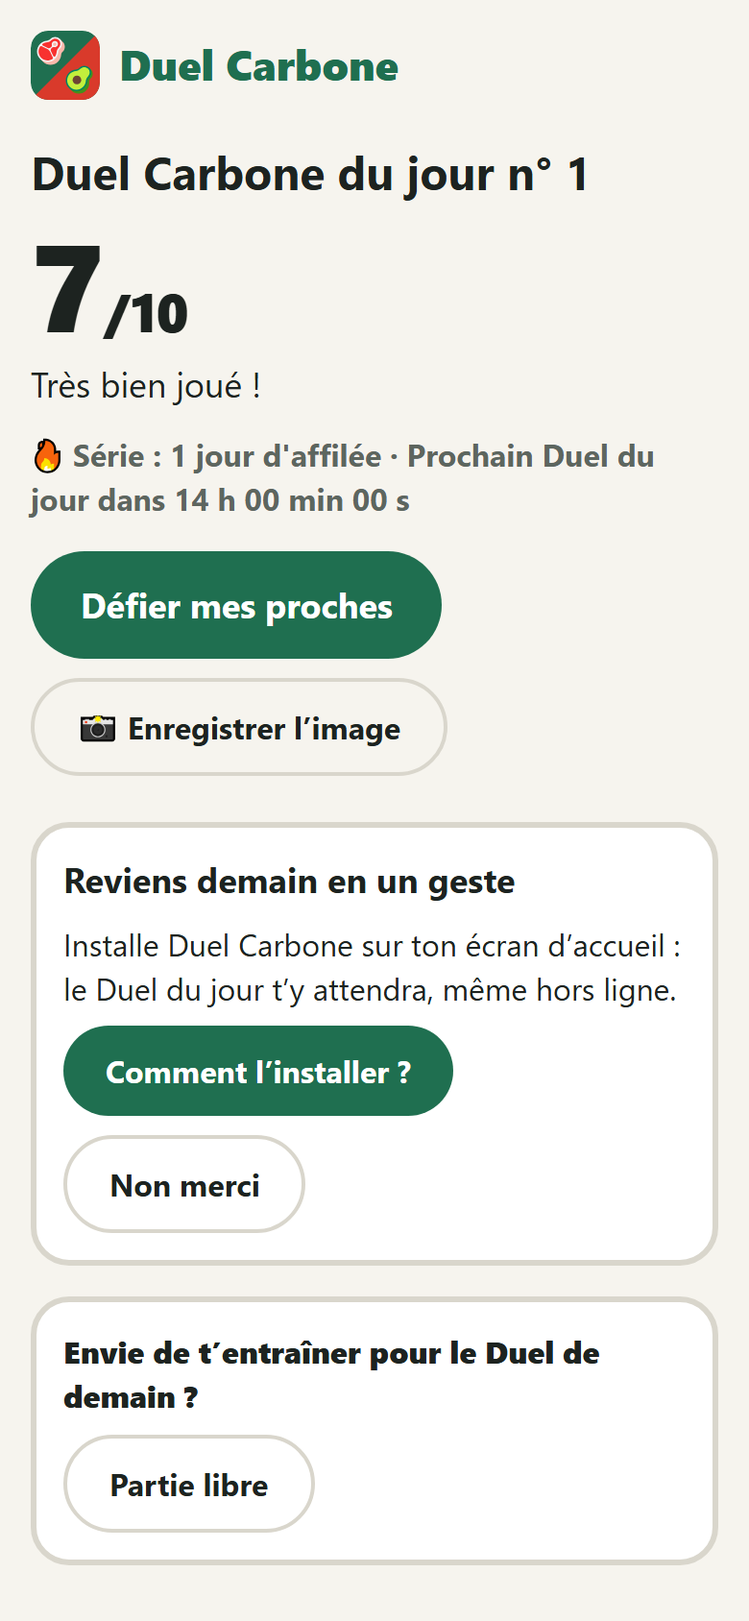
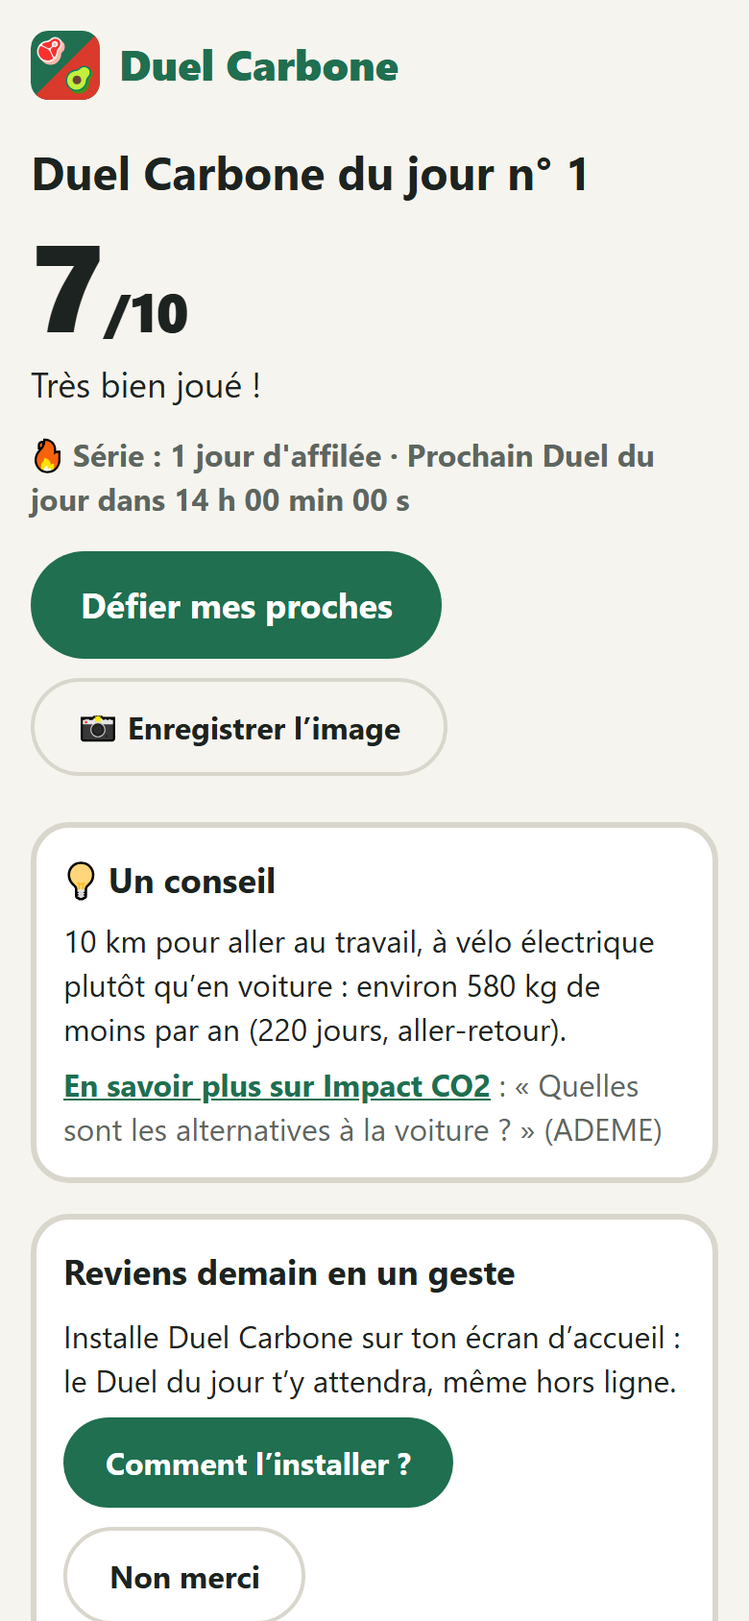
feat(fin): le Conseil sous le partage (variante A du prototype), tests et documentation
Fabien a choisi la variante A le 22/11 : le Rang du jour reste sous le
score, le Conseil arrive sous les boutons de partage. Le prototype est
retiré d'ici et gardé sur la branche prototype/conseil-place.

Tests de l'écran de fin, de l'application (Duel du jour revu, Partie
libre sans Conseil récent) et de bout en bout (clavier, axe-core en clair
et en sombre). PRD, page En savoir plus (d'où viennent les chiffres des
Conseils, vie privée) et capture de fin du README à jour.

Changed region(s): [[0.0308, 0.5237, 0.9846, 1.0]]

diff --git a/src/ecrans/EcranEnSavoirPlus.tsx b/src/ecrans/EcranEnSavoirPlus.tsx
@@ -1,4 +1,5 @@
 import { useEffect, useRef, useState, type MouseEvent, type ReactNode } from 'react'
+import { CONSEILS } from '../donnees/conseils.ts'
 import { GESTES_CALCULES, gesteCalcule, INSTANTANE } from '../donnees/index.ts'
 import { enMinuscule, formaterDate, formaterEmpreinte } from '../domaine/format.ts'
 import { REGLES } from '../domaine/regles.ts'
@@ -57,6 +58,11 @@ const PART_DES_TRAINEES = trainees ? Math.round((trainees.valeur / NEW_YORK.empr
 const kgIa = (h: keyof typeof HYPOTHESES) => Math.round(empreinteDeLaCreation(JETONS, HYPOTHESES[h]).kgCo2e)
 const FRIENDS = gesteCalcule('friends')
 
+// L'exemple de calcul d'un Conseil : 2 repas au bœuf par semaine devenus végétariens, avec les valeurs de l'Instantané.
+const REPAS_BOEUF = gesteCalcule('repas-boeuf')
+const REPAS_VEGETARIEN = gesteCalcule('repas-vegetarien')
+const ECONOMIE_VEGETARIENNE = 2 * 52 * (REPAS_BOEUF.empreinte - REPAS_VEGETARIEN.empreinte)
+
 const PREMIERE_TRANCHE = REGLES.tranchesParDuel[0]
 const DERNIERE_TRANCHE = REGLES.tranchesParDuel[REGLES.tranchesParDuel.length - 1]
 
@@ -72,6 +78,7 @@ const PARTIES = {
   objets: "Les objets : la durée d'utilisation retenue par l'ADEME",
   reglages: "Les réglages : ceux de l'ADEME, par défaut",
   regles: 'Les règles du jeu',
+  conseils: 'Les Conseils de fin de Partie',
   installer: 'Jouer hors ligne : installer le jeu',
   'vie-privee': 'Ta vie privée',
   empreinte: 'L’empreinte de ce jeu',
@@ -292,6 +299,30 @@ export function EcranEnSavoirPlus() {
         </p>
       </Partie>
 
+      <Partie id="conseils">
+        <p>
+          À la fin de chaque Partie, un Conseil propose une action concrète, liée à un geste de ta Partie, de
+          préférence à un Duel que tu as raté. Le jeu en compte {CONSEILS.length}, écrits par Duel Carbone : l'ADEME
+          publie des idées pour agir, mais pas de conseil chiffré pour chaque geste. Un même Conseil ne revient pas
+          avant 5 Parties.
+        </p>
+        <p>
+          Leurs chiffres ne sont jamais écrits à la main : ils sont calculés avec les mêmes valeurs de l'ADEME que les
+          Duels, pour ne jamais les contredire. Seules les hypothèses sont notre choix (2 repas par semaine, 10 km
+          pour aller au travail, 220 jours de travail par an…), et elles sont écrites dans le texte. Par exemple :
+        </p>
+        <p className="savoir__formule">
+          2 repas × 52 semaines × ({formaterEmpreinte(REPAS_BOEUF.empreinte)} pour un repas avec du bœuf −{' '}
+          {formaterEmpreinte(REPAS_VEGETARIEN.empreinte)} pour un repas végétarien) ={' '}
+          {formaterEmpreinte(ECONOMIE_VEGETARIENNE)} de moins par an
+        </p>
+        <p>
+          Le Conseil l'arrondit (« environ {formaterEmpreinte(Math.round(ECONOMIE_VEGETARIENNE / 10) * 10)} ») et
+          renvoie vers une page de l'ADEME pour aller plus loin : une action de Nos Gestes Climat, ou les questions
+          fréquentes d'Impact CO2.
+        </p>
+      </Partie>
+
       <Partie id="installer">
         <p>
           Pour ne manquer aucun Duel du jour, installe Duel Carbone sur l’écran d’accueil de ton téléphone : il
@@ -305,7 +336,7 @@ export function EcranEnSavoirPlus() {
       <Partie id="vie-privee">
         <p>
           Sans cookie, sans compte. Ton record, ta Partie du jour (pour la reprendre ou revoir ton résultat), ta
-          série, les derniers Duels joués (pour ne pas te reposer les mêmes) et ton éventuel « Non merci » à
+          série, les derniers Duels joués et les derniers Conseils lus (pour ne pas te reposer les mêmes) et ton éventuel « Non merci » à
           l’invitation à installer le jeu sont gardés dans ton navigateur, sur cet appareil. Ils ne sont envoyés nulle part.
         </p>
         <p>
@@ -333,7 +364,7 @@ export function EcranEnSavoirPlus() {
         </p>
         <p>
           Pour savoir si le jeu plaît, nous comptons les visites et quelques moments de jeu (une Partie lancée, terminée
-          et sa durée approximative, la longueur de ta série quand tu lances le Duel du jour, « Rejouer », un partage en texte ou en image, l'invitation à installer le jeu et sa réponse, et les plantages du jeu, sans leur détail) avec{' '}
+          et sa durée approximative, la longueur de ta série quand tu lances le Duel du jour, « Rejouer », un partage en texte ou en image, le lien « En savoir plus » d'un Conseil, l'invitation à installer le jeu et sa réponse, et les plantages du jeu, sans leur détail) avec{' '}
           <a href={GOATCOUNTER}>GoatCounter</a>, une mesure
           d'audience sans cookie ni identifiant. Elle ne donne que des chiffres agrégés : elle ne peut pas te suivre
           d'un site à l'autre, ne conserve pas ton adresse IP, et ni ton score ni tes réponses ne lui sont envoyés. Si

diff --git a/src/ecrans/EcranFin.tsx b/src/ecrans/EcranFin.tsx
@@ -1,7 +1,6 @@
 import { useEffect, useRef, useState } from 'react'
 import { CompteARebours } from '../composants/CompteARebours.tsx'
 import { Conseil } from '../composants/Conseil.tsx'
-import { PrototypeSwitcher, variantePrototype } from '../composants/PrototypeSwitcher.tsx'
 import { InvitationInstallation } from '../composants/InvitationInstallation.tsx'
 import { PanneauDuel } from '../composants/PanneauDuel.tsx'
 import { RangDuJour } from '../composants/RangDuJour.tsx'
@@ -141,11 +140,6 @@ export function EcranFin({
     if (conseilAffiche) onConseilVu.current?.(conseilAffiche.id)
   }, [conseilAffiche])
 
-  // PROTOTYPE (issue 88, à retirer) : la place du Conseil à côté du Rang du jour, en développement seulement.
-  const [variante, setVariante] = useState(variantePrototype)
-  const rang = partieDuJour ? (partieDuJour.rang ?? (variante ? { type: 'pourcentage' as const, pourcentage: 72 } : null)) : null
-  const blocConseil = conseilAffiche && <Conseil conseil={conseilAffiche} />
-
   // Position (0 à 9) du Duel dont le détail est ouvert, ou null si le panneau est fermé.
   const [ouvert, setOuvert] = useState<number | null>(null)
   // Les 10 cases, pour rendre le focus à celle qu'on vient de consulter.
@@ -170,8 +164,7 @@ export function EcranFin({
         <span>/{total}</span>
       </p>
       <p className="fin__message">{messageDeScore(score, total)}</p>
-      {partieDuJour && variante !== 'C' && <RangDuJour rang={rang} />}
-      {variante === 'B' && blocConseil}
+      {partieDuJour && <RangDuJour rang={partieDuJour.rang ?? null} />}
       {partieDuJour && (
         <p className="fin__complement">
           {partieDuJour.serie > 0 && <>🔥 Série : {jours(partieDuJour.serie)} d'affilée · </>}
@@ -235,21 +228,9 @@ export function EcranFin({
           <p>L’image n’a pas pu être créée sur cet appareil : partage plutôt ton score en texte.</p>
         )}
       </div>
-      {(variante === null || variante === 'A') && blocConseil}
-      {variante === 'C' && (
-        <div className="fin__prototype-c">
-          <h3>Et toi, dans tout ça ?</h3>
-          {partieDuJour && <RangDuJour rang={rang} />}
-          {conseilAffiche && <p>{conseilAffiche.texte}</p>}
-          {conseilAffiche && (
-            <p>
-              <a href={conseilAffiche.lien.url} target="_blank" rel="noopener noreferrer">
-                En savoir plus
-              </a>
-            </p>
-          )}
-        </div>
-      )}
+      {/* Le Conseil, sous les boutons de partage (prototype du 22/11, variante A : le Rang reste sous le score,
+          le partage à portée de pouce). */}
+      {conseilAffiche && <Conseil conseil={conseilAffiche} />}
       {!partieDuJour && duJour?.situation === 'joue' && (
         <p className="fin__complement">
           Prochain Duel du jour dans <CompteARebours />
@@ -301,17 +282,6 @@ export function EcranFin({
       </ul>
 
       {ouvert !== null && <PanneauDuel key={ouvert} ligne={lignes[ouvert]} onFermer={fermer} />}
-      {variante && (
-        <PrototypeSwitcher
-          variantes={{
-            A: 'Rang en haut, Conseil sous le partage',
-            B: 'Rang et Conseil ensemble, sous le score',
-            C: 'Rang descend avec le Conseil, sous le partage',
-          }}
-          courante={variante}
-          onChange={setVariante}
-        />
-      )}
     </section>
   )
 }

diff --git a/src/App.test.tsx b/src/App.test.tsx
@@ -1,6 +1,9 @@
 import { act, fireEvent, render, screen, waitFor, within } from '@testing-library/react'
 import { afterEach, describe, expect, it, vi } from 'vitest'
 import App from './App'
+import { redigerConseil, valeursDe } from './domaine/conseils.ts'
+import { CONSEILS } from './donnees/conseils.ts'
+import { INSTANTANE } from './donnees/index.ts'
 import { creerMemoire, type Stockage } from './navigateur/memoire.ts'
 import { signalerNouvelleVersion } from './navigateur/mise-a-jour.ts'
 import { TITRE_ACCUEIL, TITRE_EN_SAVOIR_PLUS } from './referencement.ts'
@@ -439,5 +442,55 @@ describe('Application : mise à jour silencieuse (application installée)', () =
     expect(appliquer).not.toHaveBeenCalled()
     fireEvent.click(screen.getByRole('link', { name: 'Duel Carbone' }))
     expect(appliquer).toHaveBeenCalledOnce()
+  })
+})
+
+describe('Application : le Conseil de fin de Partie', () => {
+  const JOUR = '2026-11-20'
+  const jouerDixDuels = () => {
+    for (let i = 0; i < 10; i++) {
+      const auDuel = screen.queryByRole('button', { name: 'Au Duel !' })
+      if (auDuel) fireEvent.click(auDuel)
+      fireEvent.click(within(screen.getByRole('region', { name: 'Lequel émet le plus ?' })).getAllByRole('button')[0])
+      fireEvent.click(screen.getByRole('button', { name: i === 9 ? 'Voir mon score' : 'Duel suivant →' }))
+    }
+  }
+  // Comme toHaveTextContent, les espaces (dont l'espace fine des milliers, « 1 350 ») deviennent de simples espaces.
+  const texteDu = (id: string) =>
+    redigerConseil(CONSEILS.find((c) => c.id === id)!, valeursDe(INSTANTANE)).replace(/\s+/g, ' ')
+  const conseilAffiche = () => screen.getByRole('complementary', { name: 'Un conseil' })
+
+  it('en montre un à la fin du Duel du jour, et le même quand on revoit son Récapitulatif', async () => {
+    const s = stockage()
+    const premier = render(<App memoire={creerMemoire(s)} aujourdhui={JOUR} />)
+    const bouton = await screen.findByRole('button', { name: /Jouer le Duel du jour/ })
+    await waitFor(() => expect(bouton).toBeEnabled())
+    fireEvent.click(bouton)
+    jouerDixDuels()
+    const memoire = creerMemoire(s)
+    const id = memoire.partieDuJour(JOUR)?.conseil
+    expect(id).toBeDefined()
+    expect(memoire.conseilsRecents()).toEqual([id])
+    expect(conseilAffiche()).toHaveTextContent(texteDu(id!))
+    premier.unmount()
+
+    render(<App memoire={creerMemoire(s)} aujourdhui={JOUR} />)
+    fireEvent.click(await screen.findByRole('button', { name: 'Revoir mon Récapitulatif' }))
+    expect(conseilAffiche()).toHaveTextContent(texteDu(id!))
+    // Revu, il n'est pas compté une seconde fois.
+    expect(creerMemoire(s).conseilsRecents()).toEqual([id])
+  })
+
+  it('en montre un à la fin d’une Partie libre, jamais l’un des 5 derniers vus', async () => {
+    const s = stockage()
+    const memoire = creerMemoire(s)
+    const dejaVus = CONSEILS.slice(0, 5).map((c) => c.id)
+    for (const id of dejaVus) memoire.noterConseil(id)
+    render(<App memoire={creerMemoire(s)} aujourdhui={JOUR} />)
+    fireEvent.click(screen.getByRole('button', { name: 'Partie libre' }))
+    jouerDixDuels()
+    const nouveau = creerMemoire(s).conseilsRecents().at(-1)!
+    expect(dejaVus).not.toContain(nouveau)
+    expect(conseilAffiche()).toHaveTextContent(texteDu(nouveau))
   })
 })

diff --git a/e2e/conseil.spec.ts b/e2e/conseil.spec.ts
@@ -1,0 +1,38 @@
+import { expect, test } from '@playwright/test'
+import { jouerUnDuel, tabulerJusqua, verifierAccessibilite } from './outils.ts'
+
+/**
+ * Le Conseil de fin de Partie (issue 88), dans un vrai navigateur : il arrive sous les boutons de partage, son lien
+ * « En savoir plus » s'atteint au clavier et mène à une page de l'ADEME, et l'écran reste accessible.
+ */
+for (const theme of ['light', 'dark'] as const) {
+  test.describe(`mode ${theme === 'light' ? 'clair' : 'sombre'}`, () => {
+    test.use({ colorScheme: theme })
+
+    test('un Conseil sous le partage, et son lien vers l’ADEME au clavier', async ({ page }) => {
+      await page.goto('/')
+      await page.getByRole('button', { name: 'Partie libre' }).first().click()
+      for (let n = 1; n <= 10; n++) {
+        await jouerUnDuel(page, n)
+        await page.keyboard.press('Enter')
+      }
+      await expect(page.getByRole('heading', { level: 2, name: 'Partie terminée !' })).toBeVisible()
+
+      const conseil = page.getByRole('complementary', { name: 'Un conseil' })
+      await expect(conseil).toBeVisible()
+      // Sous les boutons de partage.
+      const partage = await page.getByRole('button', { name: 'Partager mon score' }).boundingBox()
+      const carte = await conseil.boundingBox()
+      expect(carte!.y).toBeGreaterThan(partage!.y)
+
+      // Le lien s'atteint au clavier, avec un focus visible, et s'ouvre dans un nouvel onglet sur une page de l'ADEME.
+      await page.getByRole('heading', { level: 2, name: 'Partie terminée !' }).focus()
+      await tabulerJusqua(page, /^En savoir plus sur (Nos Gestes Climat|Impact CO2)$/)
+      const lien = conseil.getByRole('link')
+      await expect(lien).toHaveAttribute('href', /^https:\/\/(nosgestesclimat\.fr\/actions\/|impactco2\.fr\/)/)
+      await expect(lien).toHaveAttribute('target', '_blank')
+
+      await verifierAccessibilite(page, 'fin de Partie, avec le Conseil')
+    })
+  })
+}

diff --git a/src/ecrans/EcranFin.test.tsx b/src/ecrans/EcranFin.test.tsx
@@ -333,3 +333,45 @@ describe('Récapitulatif', () => {
     expect(caseDuel(2)).toHaveFocus()
   })
 })
+
+describe('Fin de Partie : le Conseil', () => {
+  const CONSEIL = {
+    id: 'teletravail',
+    texte: 'Un jour de télétravail par semaine… environ 130 kg de trajets en moins par an.',
+    lien: { url: 'https://impactco2.fr/doc/questions-frequentes', titre: 'Le télétravail ?' },
+  }
+
+  it('n’en montre aucun sans Conseil fourni', () => {
+    afficher()
+    expect(screen.queryByRole('complementary', { name: 'Un conseil' })).not.toBeInTheDocument()
+  })
+
+  it('le choisit une seule fois, d’après les Duels de la Partie, et le note comme vu une seule fois', () => {
+    const choisir = vi.fn(() => CONSEIL)
+    const onVu = vi.fn()
+    const props = { lignes: LIGNES, score: score(etat), total: 10, onRejouer: () => {}, conseil: { choisir, onVu } }
+    const { rerender } = render(<EcranFin {...props} />)
+    rerender(<EcranFin {...props} conseil={{ choisir, onVu: vi.fn() }} />)
+    expect(choisir).toHaveBeenCalledOnce()
+    expect(choisir).toHaveBeenCalledWith(LIGNES)
+    expect(onVu).toHaveBeenCalledOnce()
+    expect(onVu).toHaveBeenCalledWith('teletravail')
+    expect(screen.getByRole('complementary', { name: 'Un conseil' })).toHaveTextContent(CONSEIL.texte)
+  })
+
+  it('arrive sous les boutons de partage (prototype du 22/11, variante A)', () => {
+    render(
+      <EcranFin
+        lignes={LIGNES}
+        score={score(etat)}
+        total={10}
+        onRejouer={() => {}}
+        partieDuJour={{ numero: 7, serie: 1 }}
+        conseil={{ choisir: () => CONSEIL, onVu: () => {} }}
+      />,
+    )
+    const partage = screen.getByRole('button', { name: 'Défier mes proches' })
+    const conseil = screen.getByRole('complementary', { name: 'Un conseil' })
+    expect(partage.compareDocumentPosition(conseil) & Node.DOCUMENT_POSITION_FOLLOWING).toBeTruthy()
+  })
+})

diff --git a/scripts/captures/captures.ts b/scripts/captures/captures.ts
@@ -21,6 +21,10 @@ for (const theme of ['clair', 'sombre'] as const) {
     const photographier = (ecran: string) => page.screenshot({ path: `${DOSSIER}/${ecran}-${theme}.png` })
     await page.emulateMedia({ colorScheme: theme === 'clair' ? 'light' : 'dark', reducedMotion: 'reduce' })
     await page.clock.setFixedTime(JOUR_DE_TEST)
+    // Le Conseil de fin de Partie est tiré au hasard parmi ceux liés à la Partie : un hasard figé redonne le même.
+    await page.addInitScript(() => {
+      Math.random = () => 0.5
+    })
 
     await page.goto('/')
     const jouer = page.getByRole('button', { name: /^Jouer le Duel du jour/ })

diff --git a/src/ecrans/EcranFin.css b/src/ecrans/EcranFin.css
@@ -169,18 +169,3 @@
   margin: 0;
   font-weight: 800;
 }
-
-/* PROTOTYPE (issue 88, à retirer) : variante C, le Rang et le Conseil dans un même bloc. */
-.fin__prototype-c {
-  display: grid;
-  gap: 6px;
-  margin-top: 8px;
-  padding: 14px;
-  border-left: 6px solid var(--marque);
-  background: var(--carte);
-}
-
-.fin__prototype-c h3,
-.fin__prototype-c p {
-  margin: 0;
-}

diff --git a/docs/prd-v1-duel.md b/docs/prd-v1-duel.md
@@ -50,6 +50,7 @@ Grand public francophone, à partir d'environ 15 ans, majoritairement sur smartp
 24. En tant que joueur, je veux partager mon score (texte et lien) via les applications de mon téléphone, ou le copier sur ordinateur, afin de défier mes proches.
 25. En tant que joueur, je veux rejouer en un clic, afin d'enchaîner les Parties.
 26. En tant que joueur régulier, je veux retrouver mon meilleur score sur mon appareil, afin d'essayer de le battre.
+27. En tant que joueur, je veux un Conseil chiffré lié à un Geste de ma Partie, de préférence à un Duel que j'ai raté, afin de savoir quoi faire de ce que je viens d'apprendre (issue 88).
 
 ### Confiance et transparence
 27. En tant que visiteur sceptique, je veux une page « En savoir plus » qui cite l'ADEME, la date de l'Instantané et le calcul Geste = Équivalent × Quantité, afin de faire confiance aux chiffres.
@@ -90,6 +91,7 @@ Grand public francophone, à partir d'environ 15 ans, majoritairement sur smartp
 | Partie libre | rejouable à volonté, présentée comme un entraînement ; son record est à part |
 | Rang du jour | la part des **autres** joueurs du jour dont le score au Duel du jour est inférieur ou égal au tien : (inférieurs + égaux − 1) ÷ (joueurs − 1), calculé par le jeu à partir des 11 Effectifs du jour (combien de joueurs ont fait 0, 1… 10) que renvoie le serveur (issue 87, ADR 0005). « Tu as fait mieux ou autant que x % des joueurs jusqu'ici » ; 10/10 : « Sans-faute, comme x % des joueurs jusqu'ici » (la part des autres qui ont aussi fait 10/10 ; personne : « Sans-faute ! Personne d'autre n'y est arrivé aujourd'hui, pour l'instant. ») ; 0/10, ou personne d'autre n'a fait moins ou autant : une phrase encourageante, sans chiffre. Tout ce qui est entre 0 et 1 % s'affiche 1 %, et 100 % seulement si personne n'a fait mieux. **Rien sous 5 joueurs** ce jour-là, le joueur compris (`REGLES.rangDuJour`, à relever avec l'audience). Affiché sous le score, à la fin du Duel du jour et sur le tableau de bord de l'accueil, relu à chaque affichage ; ni dans la Partie libre, ni dans le texte ou l'image de partage (le chiffre bouge dans la journée : à revoir après quelques semaines) |
 | Scores comptés | seulement la première fin de la Partie du jour sur un appareil, et seulement si elle arrive le jour même (heure de Paris). Le jeu envoie une seule fois le numéro du Duel du jour et les 10 Gestes choisis, sans file d'attente ni nouvel essai ; le serveur vérifie le numéro, recalcule le score à partir du calendrier (il ne croit jamais un score annoncé) et ajoute 1 au bon effectif. Les rares doublons (un joueur qui vide son navigateur et rejoue) sont acceptés. **Le jeu ne dépend jamais du serveur** : hors ligne, serveur lent (5 s) ou en panne, la Partie se joue normalement et le Rang ne s'affiche pas |
+| Conseil | un seul par Partie, à la fin du Duel du jour comme de la Partie libre (issue 88). Choisi parmi les Conseils dont un Geste déclencheur est dans la Partie, de préférence lié à un Duel raté ; sinon au hasard. Jamais un Conseil vu dans les 5 dernières Parties (mémoire du navigateur). Le Duel du jour revu remontre le même. Ses chiffres sont calculés à partir de l'Instantané, jamais écrits en dur ; son lien « En savoir plus » mène à une page de l'ADEME (action de Nos Gestes Climat ou FAQ d'Impact CO2) |
 | Ton | tutoiement, ludique mais rigoureux, jamais moralisateur |
 
 > **Pourquoi le catalogue et le Duel du jour ont changé (bilan J+7, 20 novembre 2026, issue 93).** Les Gestes revenaient trop souvent : avec 81 Gestes tirables, 76 % des Gestes d'une Partie du jour avaient déjà été vus dans les 6 jours précédents. Le catalogue passe à 119 Gestes tirables (62 %), et la Partie libre mémorise 10 Parties au lieu de 3 (plus aucun Duel ne revient dans les 10 Parties suivantes). Le Duel thématique est celui dont les joueurs parlent : il passe de 59 % à environ 69 % des Parties du jour, et chacun revient à son tour (il y avait de 1 à 12 passages par an selon les Duels). Les Quantités sont aussi verrouillées par une fourchette par Nature (un repas est un plat complet, un aliment une portion), après un plateau de sushis de 200 g opposé à un repas végétarien complet.
@@ -114,8 +116,8 @@ La référence visuelle est la variante **A2** du prototype ; le détail et les 
 - **Fin de Partie et En savoir plus** : la frise d'icônes qui défile de droite à gauche (ni sur l'accueil, où la vitrine défile déjà, ni pendant les Duels, où elle détournait l'attention des cartes). Un toucher sur la vitrine ou la frise arrête le défilement, un second le relance.
 - **Sur tous les écrans** : le pied de page « Comment ça marche ? · En savoir plus · Chiffres de l'ADEME, sans cookie ni compte ». « Chiffres de l'ADEME » mène à la documentation d'Impact CO2 ; le lien vers GitHub est dans En savoir plus, pour les curieux.
 - **En savoir plus** (ancienne page « Sources et méthode ») : d'abord pourquoi le jeu existe, puis l'ADEME et ses missions, la méthode, les règles, la vie privée, l'empreinte de la création du jeu par IA (une estimation hors ADEME, voir [empreinte-ia.md](empreinte-ia.md)), le projet sur GitHub (avec le contact contact@duelcarbone.fr) et les mentions légales (éditeur, contact, hébergeur Cloudflare, Inc.). « Retour au jeu » reste collé en bas de l'écran, comme « Duel suivant ». Les rubans d'icônes sont décoratifs (cachés aux lecteurs d'écran) et s'arrêtent si l'appareil demande moins d'animations.
-- **Fin du Duel du jour** : le titre « Duel Carbone du jour n° N », le score, la série et le temps avant le prochain Duel ; « Défier mes proches » en premier, puis l'invitation à installer le jeu (#68 : « Reviens demain en un geste », un bouton sur Android, le geste à faire sur iPhone, les favoris ailleurs ; jamais si le jeu est installé, plus jamais après « Non merci »), puis la Partie libre pour s'entraîner (« Envie de t'entraîner pour le Duel de demain ? »).
-- **Fin de Partie libre** : si le Duel du jour reste à jouer, « Échauffement terminé : place au Duel du jour ! » et son bouton en premier, puis « Rejouer » ; sinon, « Rejouer » en premier et le temps avant le prochain Duel du jour.
+- **Fin du Duel du jour** : le titre « Duel Carbone du jour n° N », le score, le Rang du jour, la série et le temps avant le prochain Duel ; « Défier mes proches » en premier, puis le Conseil (une carte « 💡 Un conseil » sous les boutons de partage : variante A du prototype du 22/11, qui garde le Rang sous le score et le partage à portée de pouce ; branche `prototype/conseil-place`), puis l'invitation à installer le jeu (#68 : « Reviens demain en un geste », un bouton sur Android, le geste à faire sur iPhone, les favoris ailleurs ; jamais si le jeu est installé, plus jamais après « Non merci »), puis la Partie libre pour s'entraîner (« Envie de t'entraîner pour le Duel de demain ? »).
+- **Fin de Partie libre** : si le Duel du jour reste à jouer, « Échauffement terminé : place au Duel du jour ! » et son bouton en premier, puis « Rejouer » ; sinon, « Rejouer » en premier et le temps avant le prochain Duel du jour. Le Conseil arrive sous les boutons de partage, comme après le Duel du jour.
 - **Comment ça marche ?** : un diaporama en 5 étapes, dans une fenêtre, sur un Duel fixe (un jean contre un Paris–Marseille en TGV). Toucher une carte dès la première étape passe directement à la réponse ; la navigation reste visible en bas de la fenêtre ; la dernière étape lance le Duel du jour.
 
 - **Duel** : deux cartes (empilées sur mobile) qui tiennent sur un écran de téléphone. Le libellé tient sur deux lignes : le geste, puis la quantité ou la durée d'utilisation.
@@ -168,16 +170,17 @@ La référence visuelle est la variante **A2** du prototype ; le détail et les 
 5. **Générateur de Partie** (fonction pure, cœur testable du produit). Il reçoit les Gestes, les Duels thématiques, les paires vues récemment, les Coefficients d'équilibrage et une source de hasard ; il renvoie 10 Duels qui respectent les règles de la section 5. Pour chaque Duel, il tire un Geste puis son adversaire dans la tranche du Duel, en suivant l'ordre d'assouplissement si la tranche n'a plus de paire jamais vue. Jamais sous le plancher de ×1,25, jamais au-delà du plafond de ×500. Les seuils sont réunis dans `src/domaine/regles.ts` : les modifier après des retours de joueurs se fait en une ligne, en mettant ce PRD à jour en même temps (puis `npm run calibrer`).
    **Calibrage** (`src/domaine/equilibrage.ts`, `npm run calibrer`) : il simule des milliers de Parties, mesure la fréquence de chaque Geste et ajuste les Coefficients d'équilibrage jusqu'à ce que tous sortent aussi souvent. Il les enregistre dans `src/donnees/coefficients.json` avec une empreinte du catalogue, des valeurs ADEME et des règles. `npm run analyse:paires` affiche les paires par Duel et les indicateurs de diversité.
 6. **Moteur de Partie** : les états successifs d'une Partie (accueil → Duel → révélation → … → fin), le score et le Récapitulatif.
-7. **Stockage local** (dans le navigateur, format versionné) : le record de la Partie libre et ses paires vues récemment, la Partie du jour en cours ou terminée (ses Duels, les réponses, le score) et la série. Aucune donnée personnelle.
+7. **Stockage local** (dans le navigateur, format versionné) : le record de la Partie libre et ses paires vues récemment, la Partie du jour en cours ou terminée (ses Duels, les réponses, le score, son Conseil), la série et les 5 derniers Conseils vus. Aucune donnée personnelle.
    **Calendrier des Parties du jour** (`src/domaine/calendrier.ts`, `src/donnees/calendrier.json`) : chargé à part, pour ne pas alourdir le démarrage du jeu.
 8. **Partage** : le menu de partage natif du téléphone, ou une copie dans le presse-papiers sur ordinateur. Le texte du Duel du jour suit le modèle de Wordle : l'accroche « C'est l'heure du Duel Carbone ! ⚔ » (une accroche qui change chaque jour a été écartée pour l'instant : à revoir selon les retours des joueurs), « Duel Carbone du jour n° N : 8/10 », une case 🟩/🟥 par Duel et le lien ; aucun nom de Geste ni marque de Duel thématique. La Partie libre garde « J'ai fait 8/10 à Duel Carbone 🌍 Sauras-tu faire mieux ? ».
    **Partage en image** (#79), pour les Stories (Instagram, Facebook, Snapchat, statuts WhatsApp), qui n'acceptent que des images : « 📸 Partager en image », juste après le bouton du texte, dessine sur l'appareil une image 1080 × 1920 en thème sombre (logo, « Duel du jour n° N » ou « Partie libre », score, message, cases ✓/✗, série, « duelcarbone.fr » ; les icônes de la vitrine en filigrane, jamais les Gestes de la Partie). Sur téléphone, le menu de partage reçoit l'image seule (sans texte : il serait perdu dans une Story) ; sur ordinateur ou sans partage de fichier, le bouton devient « Enregistrer l'image ». Le lien n'est pas cliquable dans une Story : un message rappelle l'autocollant « Lien ». L'éditeur de Story pré-rempli d'Instagram est réservé aux applications natives.
 9. **Mise en forme des nombres** : unité automatique (g, kg, t) et conventions françaises (virgule décimale).
 10. **Pages** : Accueil, Partie, Fin de Partie, En savoir plus.
 11. **Rang du jour** : le calcul et les phrases, en fonctions pures (`src/domaine/rang-du-jour.ts`, partagé avec le serveur qui s'en sert pour recalculer un score) ; l'échange avec le serveur, qui renvoie `null` au lieu d'une erreur (`src/navigateur/rang-du-jour.ts`) ; le serveur lui-même (`serveur/`). La mémoire locale retient si le serveur a compté le score du jour (`compte`), pour ne comparer le joueur qu'aux autres même quand son envoi s'est perdu.
+12. **Conseils de fin de Partie** (issue 88) : le catalogue (`src/donnees/conseils.ts`), 26 Conseils écrits maison (aucune source ADEME n'en fournit par Geste), chacun en trois morceaux pour pouvoir changer l'un sans les autres : le texte (que l'on remplacera par celui de l'ADEME si elle accepte qu'on cite ses « Idées pour agir »), les chiffres (des repères `{economie}`, calculés à partir des valeurs de l'Instantané et arrondis à un pas choisi) et le lien, plus les Gestes déclencheurs. Un test recalcule chaque chiffre et le compare au témoin `relu` : après un import ADEME, il nomme le Conseil dont le texte est à relire. Le choix est une fonction pure (`src/domaine/conseils.ts`) ; la mémoire locale retient les 5 derniers Conseils vus, et celui du Duel du jour.
 
 ### Événements de mesure d'audience
-`partie_lancee`, `partie_terminee`, `rejouer`, `partage`, `partage/image`, `duree_partie/<tranche>`, `serie/<jours>`, `erreur/<type>`.
+`partie_lancee`, `partie_terminee`, `rejouer`, `partage`, `partage/image`, `duree_partie/<tranche>`, `serie/<jours>`, `erreur/<type>`, `conseil/lien`.
 
 Dans GoatCounter, `partie_lancee`, `partie_terminee` et `rejouer` portent le mode de la Partie : `partie_lancee/jour` ou `partie_lancee/libre` (pour `rejouer`, le mode de la Partie qu'on vient de finir). Les tranches de durée font 30 secondes jusqu'à 10 minutes : `0m00-0m30`, `0m30-1m00`… `9m30-10m00`, puis `10m00-et-plus`.
 
@@ -188,6 +191,7 @@ Dans GoatCounter, `partie_lancee`, `partie_terminee` et `rejouer` portent le mod
 - `installation/proposee`, `installation/guide`, `installation/acceptee` et `installation/refusee` suivent l'invitation à installer le jeu (#68), à la fin du Duel du jour, sur téléphone ou tablette. `proposee` part à l'affichage de la carte ; `guide` quand le joueur déplie les étapes de son navigateur (« Comment l'installer ? »), une fois par affichage ; `acceptee` et `refusee` répondent au bouton d'installation ou à « Non merci ». Sur ordinateur, la ligne qui suggère les favoris n'envoie rien.
 - `erreur/script` et `erreur/promesse` comptent les plantages du jeu (une erreur de script, une promesse rejetée sans être rattrapée) : leur type seulement, jamais leur message, une fois par type et par visite.
 - `partage` part quand le score a bien été partagé ou copié, pas quand le joueur annule.
+- `conseil/lien` part quand le joueur suit le lien « En savoir plus » du Conseil de fin de Partie (issue 88), vers la page de l'ADEME. Rapporté à `partie_terminee`, il dit si les Conseils intéressent.
 - `partage/image` part quand l'image du score a été partagée (menu de partage) ou enregistrée, pas quand le joueur ferme le menu (#79).
 
 Le script de GoatCounter n'est chargé que sur l'adresse publique du jeu : ni en local, ni sur les aperçus des branches. Si un bloqueur l'empêche de se charger, le jeu fonctionne normalement.
@@ -197,7 +201,7 @@ Le **temps de jeu** est mesuré sur l'appareil, de l'affichage du premier Duel j
 
 ## 7. Stratégie de test
 
-- **Tests unitaires (Vitest)** sur les fonctions pures : calcul d'un Geste, générateur de Partie (respect de la tranche de chaque Duel, plancher ×1,25, plafond ×500, unicité des paires, tirage d'un Geste d'abord, Coefficient d'équilibrage, assouplissement quand les paires manquent), calibrage, mise en forme des nombres, transformation des réponses de l'API dans le script d'import.
+- **Tests unitaires (Vitest)** sur les fonctions pures : calcul d'un Geste, générateur de Partie (respect de la tranche de chaque Duel, plancher ×1,25, plafond ×500, unicité des paires, tirage d'un Geste d'abord, Coefficient d'équilibrage, assouplissement quand les paires manquent), calibrage, mise en forme des nombres, transformation des réponses de l'API dans le script d'import, chiffres et choix des Conseils (un test recalcule chaque chiffre et le compare au témoin `relu`).
 - **Garde-fous du calibrage** : un test vérifie que les Coefficients d'équilibrage correspondent au catalogue actuel (empreinte), un autre que la diversité atteint le seuil sur 2 000 Parties simulées.
 - Un bon test vérifie un **comportement observable** (« le Duel n°10 a un Rapport entre ×1,25 et ×1,5 »), pas les détails internes du code.
 - **Tests de bout en bout (Playwright, `npm run e2e`, lancés par la CI)** : un vrai navigateur joue le Duel du jour et une Partie libre entièrement au clavier, en vérifiant que le focus reste visible. Chaque écran passe aussi une analyse d'accessibilité automatique (axe-core, WCAG 2.2 A et AA, en mode clair et sombre), le zoom à 200 % et le réglage « réduire les animations ». Ce qu'un robot ne vérifie pas (lecteur d'écran) est dans [accessibilite.md](accessibilite.md).
